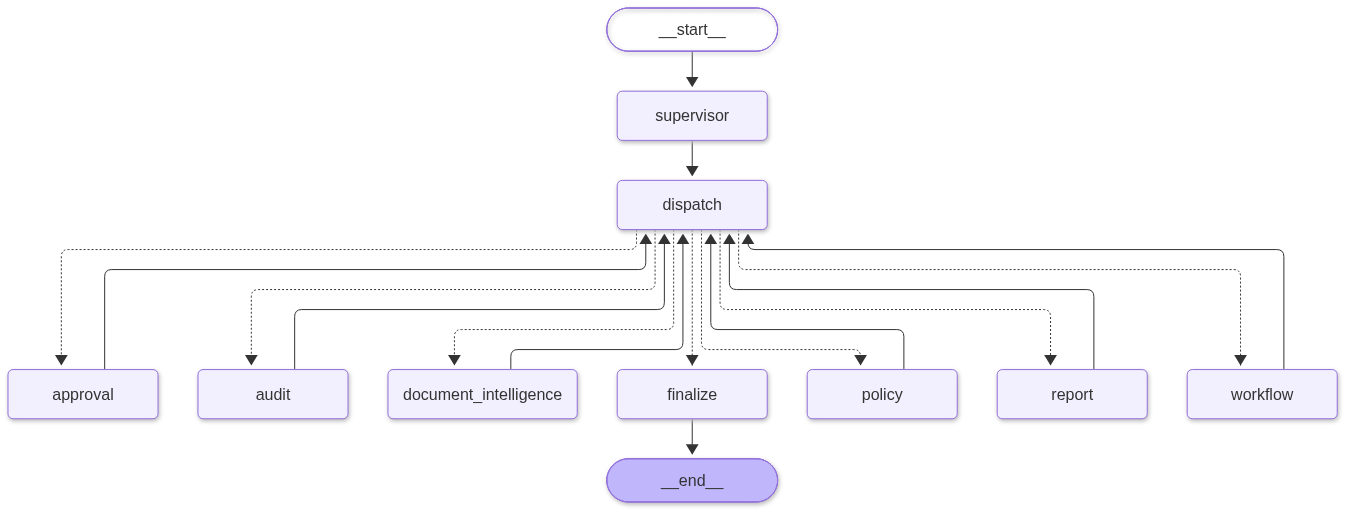
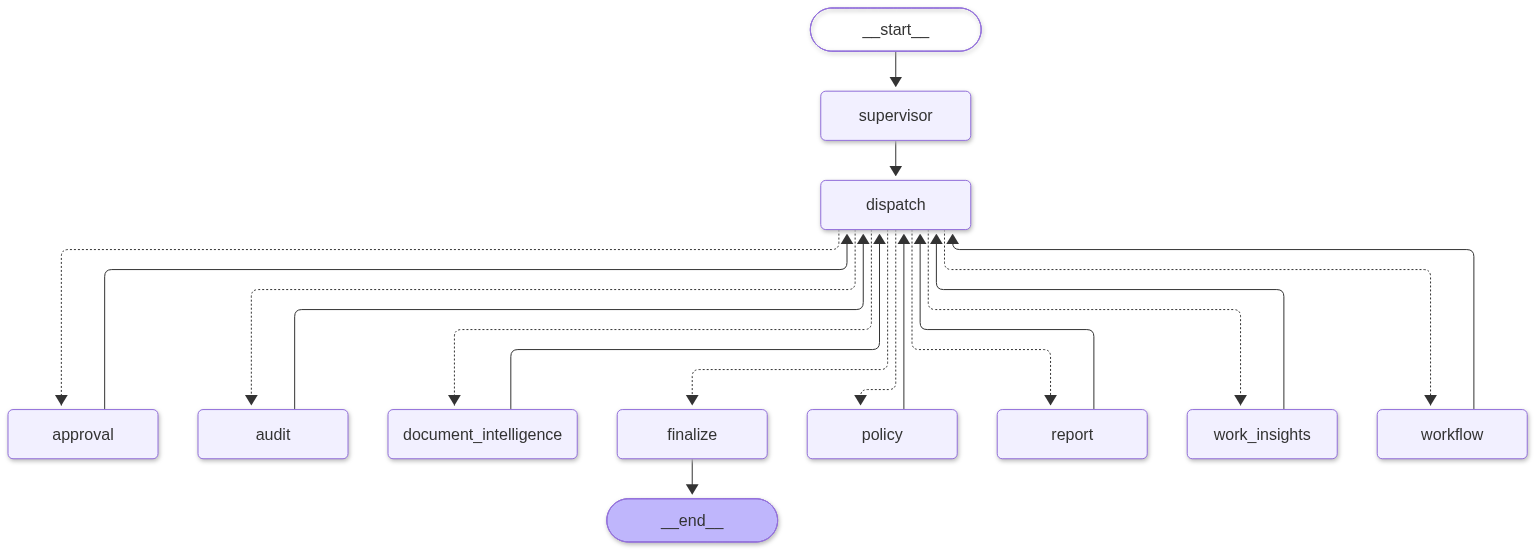
Add hiring-manager handoff guide with screenshots

Changed region(s): [[0.0, 0.0, 0.9993, 1.0], [0.0625, 0.4706, 0.0937, 0.5]]

diff --git a/web/src/pages/pages.tsx b/web/src/pages/pages.tsx
@@ -90,9 +90,6 @@ export function DashboardPage() {
               ))}
             </CardContent>
           </Card>
-          <Card className="md:col-span-2">
-            <CardContent className="pt-5 text-sm">{s.narrative}</CardContent>
-          </Card>
         </div>
       )}
       {run.data && <ResultView result={run.data} />}

diff --git a/docs/HANDOFF.md b/docs/HANDOFF.md
@@ -1,0 +1,222 @@
+# HR Intelligence 360 — Project Handoff
+
+A prototype **HR assistant powered by AI agents**. It answers policy questions, checks HR records, automates onboarding, and tracks project work from daily stand-ups.
+
+> All data is **synthetic** (made up). No real employee information is used.
+
+| | |
+|---|---|
+| **Live app** | https://hr360-web-six.vercel.app |
+| **Code** | https://github.com/itaintlene/HR-Intelligence-360 |
+| **Demo logins** | Employee, Project Manager, HR (staff / manager / admin) — available on request |
+
+---
+
+## 1. The idea in 30 seconds
+
+- **Employees** ask HR questions and post a short daily stand-up.
+- **Project managers** see which projects are on track, who is blocked, and who has gone quiet.
+- **HR** audits records, runs onboarding, and reviews each person's work **with proof**.
+- **AI helps, people decide.** Nothing is sent or approved without a human. There are no scores and no rankings.
+
+---
+
+## 2. Who sees what
+
+| | Employee | Project Manager | HR |
+|---|:-:|:-:|:-:|
+| Ask HR policy questions | ✅ | ✅ | ✅ |
+| Daily stand-up + proof upload | ✅ | ✅ | – |
+| See their own work record | ✅ | ✅ | – |
+| Project progress and blockers | – | own projects | all |
+| Pending leave summary | – | own team | all |
+| Audits, onboarding, documents | – | – | ✅ |
+| Approve emails | – | – | managers only |
+| Admin page (`/admin`, hidden) | – | – | admins only |
+
+Everyone starts as an **Employee**. An admin changes roles on the hidden `/admin` page.
+
+---
+
+## 3. Feature map — what is where
+
+| Feature | Where to find it | Who |
+|---|---|---|
+| Choose a login | Home page | Everyone |
+| Ask HR (answers with sources) | **Ask HR** | Everyone |
+| Daily stand-up + proof | **Daily stand-up** | Employee, PM |
+| My work record | **My work** | Employee, PM |
+| Project health, blockers, milestones | **Projects** | PM, HR |
+| Pending leave summary | **Team leave** / **Leave requests** | PM, HR |
+| Compliance audit + PDF/CSV report | **Audit dashboard** | HR |
+| Onboarding + email drafts | **Workflows** | HR |
+| Approve or reject emails | **Approvals** | HR manager |
+| Per-person work evidence | **Work records** | HR |
+| Employee list (private data masked) | **Employees** | HR |
+| Users, roles, email settings | `/admin` (not in the menu) | Admin |
+
+---
+
+## 4. Screenshots
+
+### Home — three logins
+![Home](handoff/img/01_landing.png)
+
+### Employee
+
+**Daily stand-up** — fill the form, then attach proof. AI summarises the file; a manager confirms it.
+![Stand-up](handoff/img/02_employee_standup.png)
+
+**My work** — the same record managers and HR see. Nothing hidden.
+![My work](handoff/img/03_employee_my_work.png)
+
+**Ask HR** — answers come only from company policy, with sources. Unknown questions are refused.
+![Ask HR](handoff/img/04_employee_ask_hr.png)
+
+### Project Manager
+
+**Projects** — green / amber / red health, progress vs. where it should be.
+![Projects](handoff/img/05_pm_projects.png)
+
+**Project detail** — signals, blockers, milestones, team. People are listed A–Z, never ranked.
+![Project detail](handoff/img/06_pm_project_detail.png)
+
+**Team leave** — pending requests with policy flags. The system never approves leave.
+![Team leave](handoff/img/07_pm_team_leave.png)
+
+### HR
+
+**Audit dashboard** — plain rules (not AI) find the problems. Every finding shows evidence.
+![Audit](handoff/img/08_hr_audit_dashboard.png)
+
+**Onboarding** — AI drafts reminder emails, then waits for a person.
+![Onboarding](handoff/img/09_hr_onboarding_waiting.png)
+
+**Approvals** — a manager reads each email and approves or rejects. Nothing is sent before this.
+![Approvals](handoff/img/10_hr_approvals.png)
+
+**Projects (HR view)** and a project with an open blocker:
+![HR projects](handoff/img/11_hr_projects.png)
+![Blocker](handoff/img/12_hr_project_blocker.png)
+
+**Work records** — one person's stand-ups, GitHub activity and proof files, in one place.
+![Work record](handoff/img/13_hr_work_record.png)
+
+**Employees** — private fields are masked.
+![Employees](handoff/img/14_hr_employees.png)
+
+### Admin (hidden page)
+
+![Admin settings](handoff/img/15_admin_settings.png)
+![Admin system](handoff/img/16_admin_system.png)
+
+---
+
+## 5. 5-minute tour
+
+1. Open the live app → **Employee login** → **Ask HR**: *"How many sick leave days do I get?"* Then ask something off-topic and see it refuse.
+2. **Daily stand-up** → submit one, attach a text file as proof.
+3. Sign in as **Project Manager** → **Projects** → open the *At risk* project.
+4. Sign in as **HR** → **Audit dashboard** → **Run full audit**.
+5. **Workflows** → *Run onboarding for EMP-1031, EMP-1032 and EMP-1035* → see it **wait for approval**.
+6. Sign in as an **HR manager** → **Approvals** → read and approve.
+7. **Work records** → open `EMP-1010`.
+
+---
+
+## 6. How it works
+
+![Agent graph](handoff/img/17_agent_graph.png)
+
+A **Supervisor** reads the request and sends it to specialist agents. It cannot invent new paths.
+
+| Agent | Job |
+|---|---|
+| Policy | Searches HR policies and answers with sources |
+| Document | Reads PDFs, Word files and scans; flags missing or odd data |
+| Audit | Applies HR rules in code; AI only explains the result |
+| Workflow | Builds checklists and email drafts; cannot send anything |
+| Work Insights | Summarises project health and per-person evidence |
+
+---
+
+## 7. Built-in safety
+
+- **Human approval** before any email goes out.
+- **Rules decide compliance, not AI.** The AI only explains.
+- **No scoring or ranking of people.** Asking for a "worst performer" is refused.
+- **Role-based access** on every page and every API call.
+- **Prompt-injection defence** on uploaded files.
+- **Audit log** of every agent run, approval, and view of a person's record.
+- **Private data kept out of AI prompts** and masked on screen.
+
+---
+
+## 8. Tech used
+
+| Area | Tools |
+|---|---|
+| Agents | Python, LangGraph, LangChain |
+| AI | Any OpenAI-compatible model (tested with Gemini); works without one |
+| Search | Sentence Transformers + FAISS |
+| Documents | PDF, Word, OCR, spaCy |
+| Backend | FastAPI, SQLAlchemy |
+| Database | SQLite (local), Postgres on Neon (live) |
+| Frontend | React, TypeScript, TanStack Router + Query, Tailwind, shadcn-style UI |
+| Login | Clerk |
+| Email | Resend |
+| Hosting | Vercel |
+| Tracing | LangSmith |
+
+---
+
+## 9. Proof it works
+
+- **153 automated tests** pass.
+- **Full simulation:** 60 made-up employees, 66 documents, 87 checks, **all passing**. It plays five different users through every feature.
+- Planted problems found: **36 of 36**, with no false alarms.
+- Policy answers: right source and right fact in **19 of 19** questions; **8 of 8** off-topic questions refused.
+- Report: [`SIMULATION_REPORT.md`](SIMULATION_REPORT.md)
+
+---
+
+## 10. Honest limits
+
+This is a **prototype**.
+
+- Synthetic data only.
+- GitHub is **ready but not connected**. The import endpoint exists and is tested with made-up events.
+- Email is in **test mode**. It sends only to one test address, after approval.
+- Uploaded proof files are summarised but not stored permanently on the live host.
+- Scanned-image reading is local-only for now. A vision AI model is the planned replacement.
+- A free AI quota can slow answers; the app then falls back to simpler, still-checked answers.
+
+**Next steps:** connect GitHub, permanent file storage, real HR data with a privacy review, email on a verified domain.
+
+---
+
+## 11. Run it yourself
+
+```powershell
+py -3.13 -m venv .venv
+.\.venv\Scripts\pip install -r requirements-full.txt
+copy .env.example .env             # add your own keys
+.\.venv\Scripts\python scripts\seed.py
+.\.venv\Scripts\python scripts\seed_work.py
+.\.venv\Scripts\uvicorn hr360.api.main:app --port 8000
+cd web; npm install; npm run dev   # http://localhost:5173
+```
+
+Run the tests: `pytest -q`  ·  Run the full simulation: `python -m hr360.simulation.run`
+
+### Where things live
+
+| Folder | What |
+|---|---|
+| `hr360/agents/` | The five agents + Supervisor |
+| `hr360/work/` | Stand-ups, projects, analytics |
+| `hr360/api/` | Backend API |
+| `hr360/rules/hr_rules.yaml` | HR rules (editable, no code) |
+| `web/src/pages/` | Screens |
+| `tests/`, `hr360/simulation/` | Tests and simulation |
+| `docs/` | This guide, architecture, Clerk setup |
